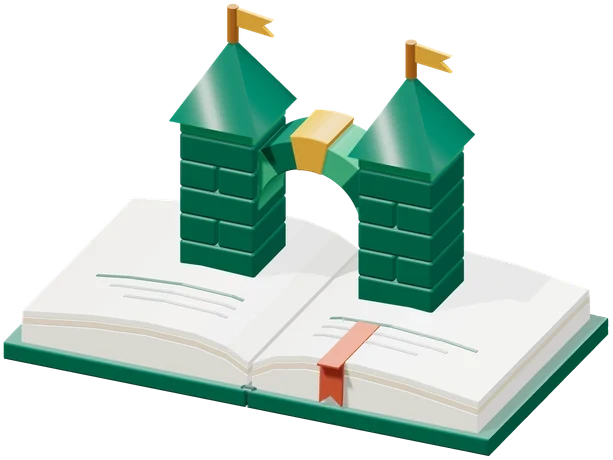
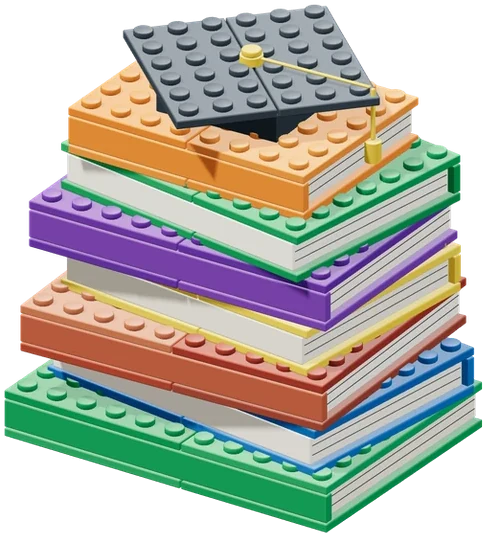
Education plate: a stack of books under a mortarboard
The pop-up gatefold is replaced with the book stack from the area-plate
exploration. Its renderer is committed as assets/js/castle/education-render.js,
and render_area_illustrations.py now renders each plate with its own renderer
(the harness takes ?renderer=); research and community re-render unchanged.
Alt text follows the new picture everywhere it appears.

The resources, topic, earlier-cluster, Educators' Corner and Replication Hub
pages now show the shadowless copies too, so their plates also sit centred.

diff --git a/assets/js/castle/education-render.js b/assets/js/castle/education-render.js
@@ -1,0 +1,167 @@
+/* The education area plate: a stack of brick books under a mortarboard (assets/images/doors/area-education.webp).
+   Rendered offline by scripts/rebrand/render_area_illustrations.py; never part of the site's bundle.
+   Unlike illustrations-render.js, it takes its lights, shadow, materials, stud profile, brick pitch and course
+   height from castle-scene.js and castle-geometry.js, and keeps the castle's camera scale. */
+import * as T from 'three';
+import { RoundedBoxGeometry } from 'three/addons/geometries/RoundedBoxGeometry.js';
+import { mergeGeometries } from 'three/addons/utils/BufferGeometryUtils.js';
+
+// ---- The castle's brick system (castle-geometry.js) ----
+const PITCH = .30, COURSE = .27, PLATE = .09, GAP = .014;
+const studGeometry = new T.LatheGeometry([
+  new T.Vector2(0, 0), new T.Vector2(.078, 0), new T.Vector2(.087, .008),
+  new T.Vector2(.087, .048), new T.Vector2(.080, .055), new T.Vector2(0, .055)
+], 16);
+const merge = parts => { const g = mergeGeometries(parts.map(p => p.index ? p.toNonIndexed() : p), false); g.computeBoundingSphere(); return g; };
+const studAt = (x, y, z) => studGeometry.clone().applyMatrix4(new T.Matrix4().makeTranslation(x, y, z));
+const cache = new Map();
+function brickGeometry(width, height, depth, studs = true) {
+  const key = [width, height, depth, studs].map(v => typeof v === 'number' ? v.toFixed(4) : v).join('/');
+  if (cache.has(key)) return cache.get(key);
+  const parts = [new RoundedBoxGeometry(width - GAP, height - GAP, depth - GAP, 2, .011)];
+  if (studs) {
+    const columns = Math.max(1, Math.floor((width - .18) / PITCH) + 1);
+    const rows = Math.max(1, Math.floor((depth - .18) / PITCH) + 1);
+    for (let x = 0; x < columns; x++) for (let z = 0; z < rows; z++) {
+      const px = (x - (columns - 1) / 2) * PITCH, pz = (z - (rows - 1) / 2) * PITCH;
+      if (Math.abs(px) + .09 < width / 2 && Math.abs(pz) + .09 < depth / 2) parts.push(studAt(px, (height - GAP) / 2, pz));
+    }
+  }
+  const g = merge(parts); cache.set(key, g); return g;
+}
+function roundGeometry(radius, height, stud = true) {
+  const key = `round/${radius}/${height}/${stud}`;
+  if (cache.has(key)) return cache.get(key);
+  const h = height - GAP;
+  const parts = [new T.CylinderGeometry(radius - GAP / 2, radius - GAP / 2, h, 32, 1)];
+  if (stud) parts.push(studAt(0, h / 2, 0));
+  const g = merge(parts); cache.set(key, g); return g;
+}
+
+// ---- Colours: the castle's stone and brick, the Pride bands, and a few neutrals ----
+const families = {
+  stone: ['#55616a', '#5c6870', '#637078', '#505c65', '#6b757b', '#5a666e', '#626b71'],
+  archStone: ['#79848a', '#707c83', '#65717a'],
+  dark: ['#444f58', '#3d4850', '#48535c'],
+  brick: ['#a84f39', '#b66147', '#9d4535', '#c17354', '#a95b44', '#bb5940', '#99503f'],
+  purple: ['#7046a3', '#6a42a0', '#7a4fac'],
+  blue: ['#2672b8', '#2a6fb2', '#2f79bd'],
+  green: ['#2b985b', '#2a9156', '#31a061'],
+  yellow: ['#edc438', '#e9bd33', '#f0ca45'],
+  orange: ['#e98434', '#e47e2e', '#ec8b3d'],
+  red: ['#ce4742', '#c8433f', '#d44f48'],
+  cream: ['#f1ece0', '#ece6d8', '#f4f0e6'],
+  ink: ['#9aa3a8'],
+  wood: ['#b77a45', '#ad723f', '#bf8250'],
+  glass: ['#cfe8f5'],
+  bark: ['#7a4a2a', '#86522f', '#6f4325'],
+  leaf: ['#3aa86a', '#41b071'],
+  leafDark: ['#1f8650', '#23804c']
+};
+const materialCache = new Map();
+function mat(color) {
+  if (!materialCache.has(color)) materialCache.set(color, new T.MeshStandardMaterial({ color, roughness: .42, metalness: .025 }));
+  return materialCache.get(color);
+}
+let serial = 1;
+// Like the castle's stones: neighbouring bricks of one colour differ slightly.
+const shade = family => { const list = families[family] || [family]; return mat(list[(serial++ * 17) % list.length]); };
+
+function place(parent, geometry, material, x, y, z, rotY = 0) {
+  const m = new T.Mesh(geometry, material);
+  m.position.set(x, y, z); m.rotation.y = rotY; m.castShadow = true; m.receiveShadow = true;
+  parent.add(m); return m;
+}
+/** A brick nx by nz studs, h high, its lower face at y. */
+function brick(parent, nx, nz, color, x, y, z, { h = COURSE, rot = 0, studs = true } = {}) {
+  return place(parent, brickGeometry(nx * PITCH, h, nz * PITCH, studs), shade(color), x, y + h / 2, z, rot);
+}
+/** A box of any size in world units (for tiles, cords and the like), lower face at y. */
+function slab(parent, w, h, d, color, x, y, z, { rot = 0, studs = false } = {}) {
+  return place(parent, brickGeometry(w, h, d, studs), shade(color), x, y + h / 2, z, rot);
+}
+function round(parent, radius, h, color, x, y, z, stud = true) {
+  return place(parent, roundGeometry(radius, h, stud), typeof color === 'string' && color.startsWith('#') ? mat(color) : shade(color), x, y + h / 2, z);
+}
+function group(parent, x = 0, y = 0, z = 0, rotY = 0) {
+  const g = new T.Group(); g.position.set(x, y, z); g.rotation.y = rotY; parent.add(g); return g;
+}
+
+// ---- Scene: castle-scene.js lighting and shadow ----
+const canvas = document.querySelector('canvas');
+const renderer = new T.WebGLRenderer({ canvas, alpha: true, antialias: true, preserveDrawingBuffer: true });
+renderer.setPixelRatio(2);
+renderer.setSize(1200, 800);
+renderer.outputColorSpace = T.SRGBColorSpace;
+renderer.toneMapping = T.ACESFilmicToneMapping;
+renderer.toneMappingExposure = 1.05;
+renderer.shadowMap.enabled = true;
+renderer.shadowMap.type = T.PCFSoftShadowMap;
+const scene = new T.Scene();
+scene.add(new T.HemisphereLight(0xffffff, 0x8b8379, 1.75));
+const key = new T.DirectionalLight(0xfffbf6, 3.5);
+key.position.set(-3, 11, 6); key.castShadow = true; key.shadow.mapSize.set(2048, 2048);
+Object.assign(key.shadow.camera, { left: -6, right: 6, top: 7, bottom: -5, near: .5, far: 22 });
+key.shadow.normalBias = .012; key.shadow.bias = -.00008; key.shadow.radius = 3;
+scene.add(key);
+const fill = new T.DirectionalLight(0xf3f7ff, 1.25); fill.position.set(6, 4, -2); scene.add(fill);
+const rim = new T.DirectionalLight(0xffffff, 1.2); rim.position.set(-3, 5, -5); scene.add(rim);
+const ground = new T.Mesh(new T.PlaneGeometry(30, 30), new T.ShadowMaterial({ opacity: .18 }));
+ground.rotation.x = -Math.PI / 2; ground.position.y = -.035; ground.receiveShadow = true; scene.add(ground);
+const model = new T.Group(); scene.add(model);
+const VIEW = new T.Vector3(7.4, 6.4, 10.2);
+
+// ======================================================================
+// Education
+// ======================================================================
+
+/** One closed book lying flat: covers, a page block and a spine. Spine on local -z or +z. */
+function closedBook(parent, nx, nz, cover, y, x, z, rot, spineFront) {
+  const g = group(parent, x, y, z, rot);
+  const w = nx * PITCH, d = nz * PITCH, s = spineFront ? 1 : -1;
+  // Covers in two halves, so the joint shows like the castle's bonded courses.
+  const half = Math.ceil(nx / 2);
+  for (const [n, off] of [[half, -(nx - half) * PITCH / 2], [nx - half, half * PITCH / 2]]) {
+    slab(g, n * PITCH, PLATE, d, cover, off, 0, 0);
+    slab(g, n * PITCH, PLATE, d, cover, off, PLATE + COURSE, 0, { studs: true });
+  }
+  // The page block is set back from the three open edges.
+  slab(g, w - .12, COURSE, d - .1, 'cream', -.0, PLATE, -s * .04);
+  // Spine: one brick face along the bound edge.
+  slab(g, w, COURSE, .1, cover, 0, PLATE, s * (d / 2 - .05));
+  // Leaf lines on the fore-edge and the head, read as pages.
+  for (let k = 1; k < 3; k++) {
+    slab(g, w - .16, .006, .006, 'ink', 0, PLATE + k * COURSE / 3, -s * (d / 2 - .095));
+    slab(g, .006, .006, d - .16, 'ink', w / 2 - .065, PLATE + k * COURSE / 3, -s * .04);
+  }
+  return PLATE * 2 + COURSE;
+}
+
+function eduStack() {
+  // A tall stack of books, crowned with a mortarboard: teaching materials, gathered and shared.
+  const books = [[11, 8, 'green', .04, true], [10, 7, 'blue', -.08, false], [10, 8, 'brick', .09, true], [9, 7, 'yellow', -.05, false], [10, 7, 'purple', .06, true], [9, 7, 'green', -.1, false], [8, 6, 'orange', .05, true]];
+  let y = 0;
+  books.forEach(([nx, nz, c, r, front], i) => { y += closedBook(model, nx, nz, c, y, i % 2 ? .06 : -.05, i % 2 ? -.05 : .05, r, front); });
+  // Mortarboard: a studded skull cap and a square board set diagonally, with its tassel.
+  const cap = group(model, 0, y, 0, .1);
+  brick(cap, 4, 4, 'dark', 0, 0, 0);
+  const board = group(cap, 0, COURSE, 0, Math.PI / 4);
+  for (const off of [-.45, .45]) slab(board, 3 * PITCH, PLATE, 6 * PITCH, 'dark', off, 0, 0, { studs: true });
+  round(board, .11, PLATE, 'yellow', 0, PLATE, 0, true);
+  const cord = group(board, 0, PLATE + .05, 0, -Math.PI / 4);
+  const reach = 6 * PITCH / 2 * Math.SQRT2 - .1;
+  slab(cord, reach, .035, .05, 'yellow', reach / 2, 0, 0);
+  slab(cord, .05, .5, .05, 'yellow', reach + .02, -.48, 0);
+  round(cord, .08, .2, 'yellow', reach + .02, -.68, 0, false);
+}
+
+// ---- Render ----
+const kind = 'stack';
+eduStack();
+const bounds = new T.Box3().setFromObject(model);
+const center = bounds.getCenter(new T.Vector3());
+// Fixed scale: the castle's camera on a 1200x800 canvas (halfHeight 3.25, aspect 1.5).
+const camera = new T.OrthographicCamera(-4.875, 4.875, 3.25, -3.25, .1, 40);
+camera.position.copy(center).add(VIEW); camera.lookAt(center); camera.updateMatrixWorld();
+renderer.render(scene, camera);
+window.renderReady = { kind, bounds: bounds.getSize(new T.Vector3()).toArray() };

diff --git a/layouts/_default/terms.html b/layouts/_default/terms.html
@@ -13,7 +13,7 @@
         {{ with .Params.subtitle }}<p class="standfirst">{{ . | markdownify | emojify }}</p>{{ end }}
         {{ if eq $kind "categories" }}<p class="standfirst">Each post in <a href="{{ relref . "/post" }}">news and announcements</a> has one of these {{ len .Data.Terms }} categories.</p>{{ end }}
         {{/* The directory's illustration beside the title, as these are resources from the same collection. */}}
-        {{ if $topic }}{{ with resources.Get "images/doors/area-education.webp" }}<figure class="topic-plate-head"><img src="{{ .RelPermalink }}" alt="" width="{{ .Width }}" height="{{ .Height }}"></figure>{{ end }}{{ end }}
+        {{ if $topic }}{{ with resources.Get "images/doors/area-education-bricks.webp" }}<figure class="topic-plate-head"><img src="{{ .RelPermalink }}" alt="" width="{{ .Width }}" height="{{ .Height }}"></figure>{{ end }}{{ end }}
         {{ if $topic }}<p class="topic-index__actions"><a class="btn btn-primary" href="{{ relref . "/clusters" }}">Browse the {{ with hugo.Data.clusters_v4 }}{{ len .clusters }}{{ else }}11{{ end }} current clusters</a> <a class="btn btn-outline-primary" href="{{ relref . "/resources" }}">Search all resources</a></p>{{ end }}
       </header>
       {{ with .Content }}<div class="article-style">{{ partial "doors/content" . }}</div>{{ end }}

diff --git a/layouts/partials/doors/topic_resources.html b/layouts/partials/doors/topic_resources.html
@@ -44,7 +44,7 @@
 {{ $types := slice }}
 {{ range $index.facets }}{{ if eq .key "type" }}{{ range $v := .values }}{{ with index $typeCount $v.slug }}{{ $types = $types | append (dict "slug" $v.slug "label" $v.label "count" . "sort" (sub 10000 .)) }}{{ end }}{{ end }}{{ end }}{{ end }}
 {{ $types = sort $types "sort" }}
-{{ $plate := resources.Get "images/doors/area-education.webp" }}
+{{ $plate := resources.Get "images/doors/area-education-bricks.webp" }}
 <div class="article-style cluster-resources-list">
   <div class="topic-head">
     <section class="topic-now" aria-labelledby="topic-now-title">
@@ -58,7 +58,7 @@
         {{ end }}
       </ol>
     </section>
-    <figure class="heading-plate topic-plate"><img src="{{ $plate.RelPermalink }}" alt="Two green brick towers joined by an arch rising from an open book." width="{{ $plate.Width }}" height="{{ $plate.Height }}"></figure>
+    <figure class="heading-plate topic-plate"><img src="{{ $plate.RelPermalink }}" alt="A stack of brick books in different colours, topped with a mortarboard." width="{{ $plate.Width }}" height="{{ $plate.Height }}"></figure>
   </div>
   <div class="topic-toolbar">
   <div class="list-filter topic-tools" data-noun="resources" data-list="#now-{{ (index $groups 0).key }}" data-no-jump hidden>

diff --git a/layouts/replication-hub/single.html b/layouts/replication-hub/single.html
@@ -12,7 +12,7 @@
         <h1>{{ .Title }}</h1>
         <p class="lede">Completed and ongoing large-scale projects summarising replication and computational reproducibility efforts across sciences and humanities.</p>
       </div>
-      {{ with resources.Get "images/doors/area-research.webp" }}
+      {{ with resources.Get "images/doors/area-research-bricks.webp" }}
       {{ $w := .Resize "440x webp q80" }}
       <figure class="heading-plate heading-plate-research" aria-hidden="true"><img src="{{ $w.RelPermalink }}" width="{{ $w.Width }}" height="{{ $w.Height }}" alt=""></figure>
       {{ end }}
@@ -233,7 +233,7 @@
       <div>
         <h1>{{ .Title }}</h1>
       </div>
-      {{ with resources.Get "images/doors/area-research.webp" }}
+      {{ with resources.Get "images/doors/area-research-bricks.webp" }}
       {{ $w := .Resize "440x webp q80" }}
       <figure class="heading-plate heading-plate-research" aria-hidden="true"><img src="{{ $w.RelPermalink }}" width="{{ $w.Width }}" height="{{ $w.Height }}" alt=""></figure>
       {{ end }}

diff --git a/layouts/resources/list.html b/layouts/resources/list.html
@@ -7,7 +7,7 @@
 {{ $total := len $index.pages }}
 {{ $pager := .Paginate $index.pages 24 }}
 {{ $data := partialCached "doors/resource_data" (dict "index" $index) "resources" }}
-{{ $plate := resources.Get "images/doors/area-education.webp" }}
+{{ $plate := resources.Get "images/doors/area-education-bricks.webp" }}
 <div class="wrap">
   <header class="page-heading">
     {{ partial "doors/crumbs" (dict "page" . "label" .Params.heading) }}
@@ -32,7 +32,7 @@
           </ul>
         </nav>
       </div>
-      <figure class="heading-plate res-plate"><img src="{{ $plate.RelPermalink }}" alt="Two green brick towers joined by an arch rising from an open book." width="{{ $plate.Width }}" height="{{ $plate.Height }}"></figure>
+      <figure class="heading-plate res-plate"><img src="{{ $plate.RelPermalink }}" alt="A stack of brick books in different colours, topped with a mortarboard." width="{{ $plate.Width }}" height="{{ $plate.Height }}"></figure>
     </div>
   </header>
 

diff --git a/layouts/section/educators-corner.html b/layouts/section/educators-corner.html
@@ -48,7 +48,7 @@
     {{/* An action, so a brick (DESIGN.md §4), in a brick colour rather than education's, which the door of a post
          without a picture already uses. */}}
     <div class="ec-write-card">
-      {{ with resources.Get "images/doors/area-education.webp" }}{{ $w := .Resize "440x webp q80" }}<div class="ec-write-plate"><img src="{{ $w.RelPermalink }}" width="{{ $w.Width }}" height="{{ $w.Height }}" alt="" loading="lazy"></div>{{ end }}
+      {{ with resources.Get "images/doors/area-education-bricks.webp" }}{{ $w := .Resize "440x webp q80" }}<div class="ec-write-plate"><img src="{{ $w.RelPermalink }}" width="{{ $w.Width }}" height="{{ $w.Height }}" alt="" loading="lazy"></div>{{ end }}
       <h2>Write for Educators' Corner</h2>
       <p>Share what you have learnt teaching or mentoring in open research.</p>
       <a class="ec-write-link" href="mailto:info@forrt.org?subject=Educators%27%20Corner%3A%20article%20idea">Email us your idea</a>

diff --git a/assets/js/castle/illustrations-harness.html b/assets/js/castle/illustrations-harness.html
@@ -2,4 +2,6 @@
 <html lang="en"><meta charset="utf-8"><title>FORRT area plates</title>
 <style>html,body{margin:0;background:transparent}canvas{display:block}</style>
 <script type="importmap">{"imports":{"three":"/three/index.js","three/addons/":"/three/addons/"}}</script>
-<canvas></canvas><script type="module" src="illustrations-render.js"></script></html>
+<canvas></canvas>
+<!-- ?renderer= picks the renderer (default illustrations-render.js); ?kind= is read by the renderer. -->
+<script type="module">import("./" + (new URLSearchParams(location.search).get("renderer") || "illustrations-render.js"));</script></html>

diff --git a/layouts/replication-hub/list.html b/layouts/replication-hub/list.html
@@ -14,7 +14,7 @@
         <p class="lede">FORRT's open, crowd-sourced library tracking replication and computational reproduction attempts across the sciences and humanities.</p>
         {{ partial "doors/page_actions" . }}
       </div>
-      {{ with resources.Get "images/doors/area-research.webp" }}
+      {{ with resources.Get "images/doors/area-research-bricks.webp" }}
       {{ $w := .Resize "440x webp q80" }}
       <figure class="heading-plate heading-plate-research" aria-hidden="true"><img src="{{ $w.RelPermalink }}" width="{{ $w.Width }}" height="{{ $w.Height }}" alt=""></figure>
       {{ end }}

diff --git a/scripts/rebrand/render_area_illustrations.py b/scripts/rebrand/render_area_illustrations.py
@@ -1,12 +1,13 @@
 #!/usr/bin/env python3
 """Render the education, research and community area plates (assets/images/doors/area-*.webp).
 
-    python3 scripts/rebrand/render_area_illustrations.py
+    python3 scripts/rebrand/render_area_illustrations.py [education research community]
 
-Loads assets/js/castle/illustrations-render.js in headless Chromium through
-assets/js/castle/illustrations-harness.html, with Three.js served from assets/three/. Each plate
-is trimmed to the model and its shadow and set 640 px wide. At that size their bricks match the
-justice plate's, which comes from the castle (assets/js/castle/README.md) and is not rendered here.
+Loads each plate's renderer in headless Chromium through assets/js/castle/illustrations-harness.html,
+with Three.js served from assets/three/: assets/js/castle/education-render.js for the book stack, and
+assets/js/castle/illustrations-render.js for the notebook and table. Each plate is trimmed to the model
+and its shadow and set 640 px wide. The justice plate comes from the castle (assets/js/castle/README.md)
+and is not rendered here.
 
 Afterwards run scripts/rebrand/area_plate_bricks.py for the shadowless copies the area doors show.
 
@@ -15,6 +16,7 @@ Needs Pillow and Playwright for Python with its Chromium (`python3 -m playwright
 import base64
 import io
 import mimetypes
+import sys
 from pathlib import Path
 from urllib.parse import urlsplit
 
@@ -23,18 +25,23 @@ from playwright.sync_api import sync_playwright
 
 ROOT = Path(__file__).resolve().parents[2]
 CASTLE = ROOT / "assets/js/castle"
-# kind in illustrations-render.js: area plate
-PLATES = {"popup": "education", "notebook": "research", "table": "community"}
+# area plate: (renderer in assets/js/castle/, kind)
+PLATES = {
+    "education": ("education-render.js", "stack"),
+    "research": ("illustrations-render.js", "notebook"),
+    "community": ("illustrations-render.js", "table"),
+}
+RENDERERS = {renderer for renderer, _ in PLATES.values()}
 
 
-def main():
+def main(areas):
     with sync_playwright() as playwright:
         browser = playwright.chromium.launch(args=["--use-angle=swiftshader", "--enable-unsafe-swiftshader"])
         context = browser.new_context(viewport={"width": 1200, "height": 800})
 
         def serve(route):
             path = urlsplit(route.request.url).path.lstrip("/")
-            if path in ("illustrations-harness.html", "illustrations-render.js"):
+            if path == "illustrations-harness.html" or path in RENDERERS:
                 source = CASTLE / path
             elif path.startswith("three/") and ".." not in path:
                 source = ROOT / "assets" / path
@@ -43,11 +50,12 @@ def main():
             route.fulfill(body=source.read_bytes(), content_type=mimetypes.guess_type(source)[0])
 
         context.route("**/*", serve)
-        for kind, area in PLATES.items():
+        for area in areas:
+            renderer, kind = PLATES[area]
             page = context.new_page()
             page.on("pageerror", lambda error, kind=kind: print(f"{kind}: {error}", flush=True))
             page.on("console", lambda msg, kind=kind: msg.type == "error" and print(f"{kind}: {msg.text}", flush=True))
-            page.goto(f"http://plates.invalid/illustrations-harness.html?kind={kind}")
+            page.goto(f"http://plates.invalid/illustrations-harness.html?renderer={renderer}&kind={kind}")
             page.wait_for_function("window.renderReady", timeout=90000)
             raw, size = page.eval_on_selector("canvas", "c => [c.toDataURL('image/png').split(',')[1], [c.clientWidth, c.clientHeight]]")
             page.close()
@@ -62,4 +70,4 @@ def main():
 
 
 if __name__ == "__main__":
-    main()
+    main(sys.argv[1:] or list(PLATES))

diff --git a/assets/js/castle/README.md b/assets/js/castle/README.md
@@ -8,7 +8,7 @@ The animated brick tower in the home page's arched door. Hugo bundles it with `j
 | `castle-geometry.js` | The bricks |
 | `castle-piles.js` | Baked resting poses of the two heaps. Generated, see below |
 | `bake-castle-piles.js` | Offline physics bake for those poses. Never part of the site's bundle |
-| `illustrations-render.js`, `illustrations-harness.html` | Offline renderer for the education, research and community area plates; `scripts/rebrand/render_area_illustrations.py` renders them. Never part of the site's bundle |
+| `illustrations-render.js`, `education-render.js`, `illustrations-harness.html` | Offline renderers for the research and community area plates (`illustrations-render.js`) and the education plate (`education-render.js`); `scripts/rebrand/render_area_illustrations.py` renders them. Never part of the site's bundle |
 | `../doors/castle.js` | Loads the bundle after paint and owns playback: pause, hover, tap, off-screen suspension. Also opens the tower game, see `../tower/README.md` |
 | `../doors/motion.js` | The pause state the castle shares with the home page's quotes, remembered between visits |
 

diff --git a/content/home/2-areas.md b/content/home/2-areas.md
@@ -8,7 +8,7 @@ weight = 20
   title = "Education & Pedagogy"
   blurb = "Find, access and reuse teaching and mentoring materials."
   image = "area-education"
-  alt = "Two green brick towers joined by an arch rising from an open book."
+  alt = "A stack of brick books in different colours, topped with a mortarboard."
   links = [
     { url = "resources/" },
     { url = "lesson-plans/" },

diff --git a/content/welcome/index.md b/content/welcome/index.md
@@ -26,7 +26,7 @@ areas:
   - key: edu
     title: "Education & Pedagogy"
     image: area-education
-    alt: "Two green brick towers joined by an arch rising from an open book."
+    alt: "A stack of brick books in different colours, topped with a mortarboard."
     links:
       - title: "Educational Nexus"
         text: "FORRT's teaching projects and resources in one place."
